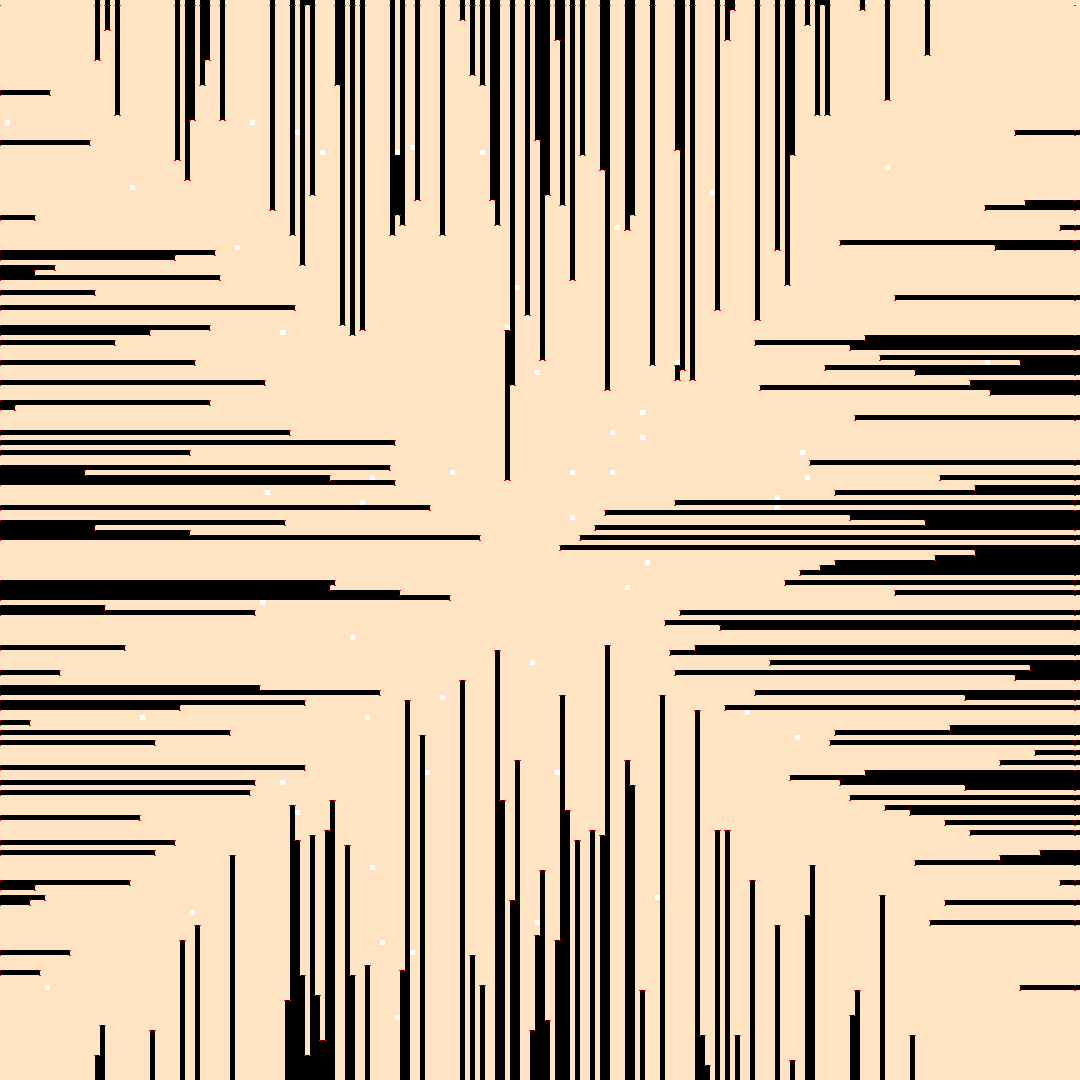
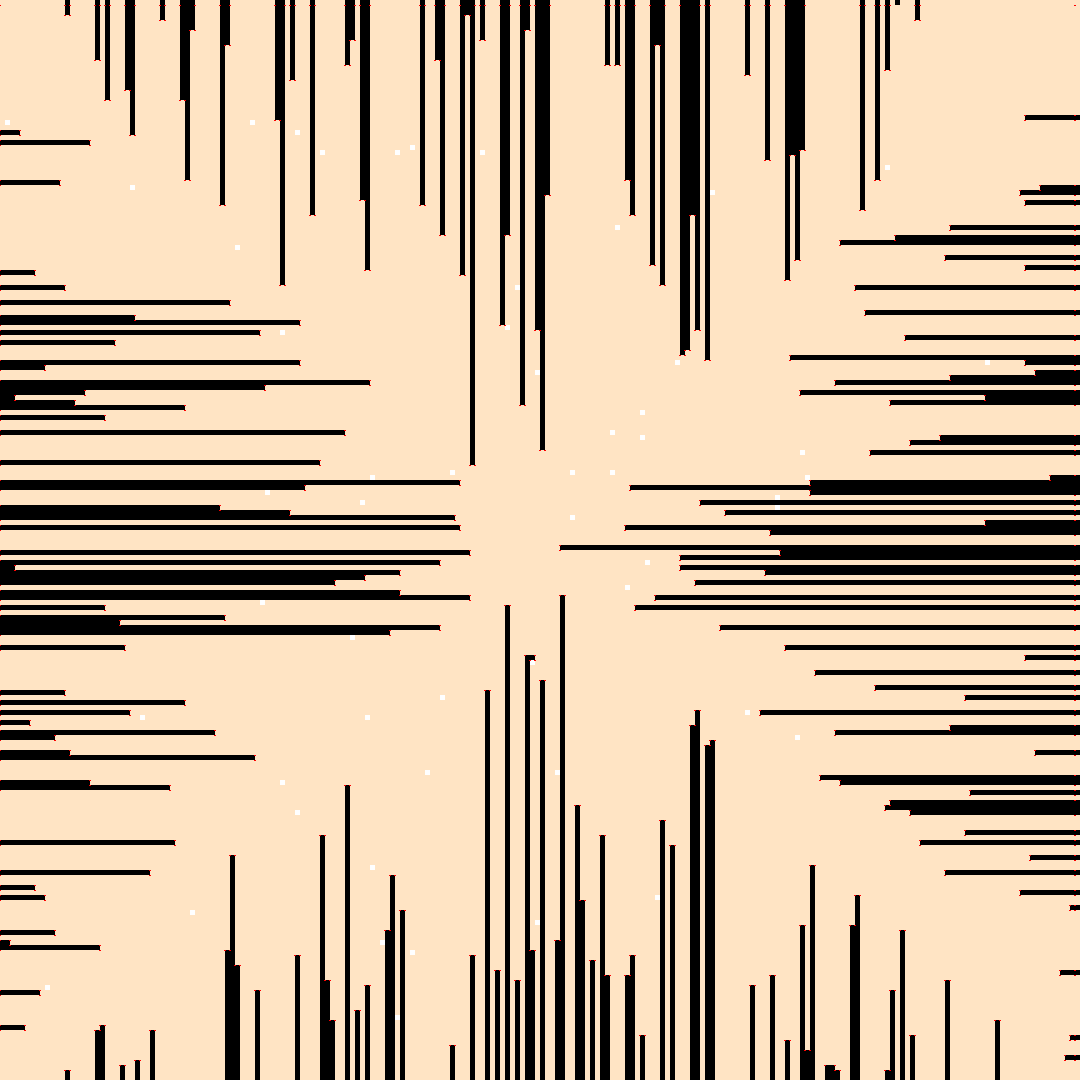
Work around puzzle checker bugs

diff --git a/BlockhainAutomator/Program.cs b/BlockhainAutomator/Program.cs
@@ -59,9 +59,25 @@
             if (!File.Exists(puzzleSolutionFile))
             {
                 Console.WriteLine("Solving puzzle");
-                var puzzle = new Puzzle(puzzleText);
-                File.WriteAllText(puzzleSolutionFile, puzzle.SaveToMap());
-                puzzle.SaveToBitmap().Save($"{puzzleFile}.png");
+                var seed = 3133337;
+                while (true)
+                {
+                    Console.WriteLine($"Solving puzzle with seed {seed}");
+                    var puzzle = new Puzzle(puzzleText, seed);
+                    File.WriteAllText(puzzleSolutionFile, puzzle.SaveToMap());
+                    puzzle.SaveToBitmap().Save($"{puzzleFile}.png");
+                    try
+                    {
+                        puzzle.EnsureMapIsValid(puzzleSolutionFile);
+                        Console.WriteLine("Have a valid solution");
+                        break;
+                    }
+                    catch (Exception ex)
+                    {
+                        Console.WriteLine($"Puzzle solution is invalid: {ex.Message}");
+                        ++seed;
+                    }
+                }
             }
 
             var taskFile = Path.Combine(blockDir, "task.desc");

diff --git a/Tests/PuzzleTests.cs b/Tests/PuzzleTests.cs
@@ -20,11 +20,11 @@ namespace Icfpc2019.Tests
         [Fact]
         public void TestValidation()
         {
-            var puzzle14 = new Puzzle(File.ReadAllText(@"..\..\..\..\Data\blocks\14\puzzle.cond"));
+            var puzzle14 = new Puzzle(File.ReadAllText(@"..\..\..\..\Data\blocks\14\puzzle.cond"), 3133337);
             var map14 = @"..\..\..\..\Data\blocks\14\puzzle.cond.desc";
             Assert.Throws<Exception>(() => puzzle14.EnsureMapIsValid(map14));
 
-            var puzzle15 = new Puzzle(File.ReadAllText(@"..\..\..\..\Data\blocks\15\puzzle.cond"));
+            var puzzle15 = new Puzzle(File.ReadAllText(@"..\..\..\..\Data\blocks\15\puzzle.cond"), 3133337);
             var map15 = @"..\..\..\..\Data\blocks\15\puzzle.cond.desc";
             puzzle15.EnsureMapIsValid(map15);
         }
@@ -40,7 +40,7 @@ namespace Icfpc2019.Tests
                     continue;
                 }
 
-                var puzzle = new Puzzle(File.ReadAllText($@"..\..\..\..\Data\blocks\{bn}\puzzle.cond"));
+                var puzzle = new Puzzle(File.ReadAllText($@"..\..\..\..\Data\blocks\{bn}\puzzle.cond"), 3133337);
                 var map = $@"..\..\..\..\Data\blocks\{bn}\puzzle.cond.desc";
                 try
                 {

diff --git a/Solution/Puzzle.cs b/Solution/Puzzle.cs
@@ -18,7 +18,7 @@ namespace Icfpc2019.Solution
         private readonly HashSet<Point> contourPoints = new HashSet<Point>();
         private readonly HashSet<Point> insidePoints = new HashSet<Point>();
         private readonly HashSet<Point> outsidePoints = new HashSet<Point>();
-        private readonly Random rng = new Random(3133337);
+        private readonly Random rng;
         private int cNum;
         private int dNum;
         private int fNum;
@@ -29,8 +29,9 @@ namespace Icfpc2019.Solution
         private int vMin;
         private int xNum;
 
-        public Puzzle(string description)
+        public Puzzle(string description, int seed)
         {
+            this.rng = new Random(seed);
             var tokens = description.Split('#');
 
             var hyperParams = tokens[0].Split(',');
